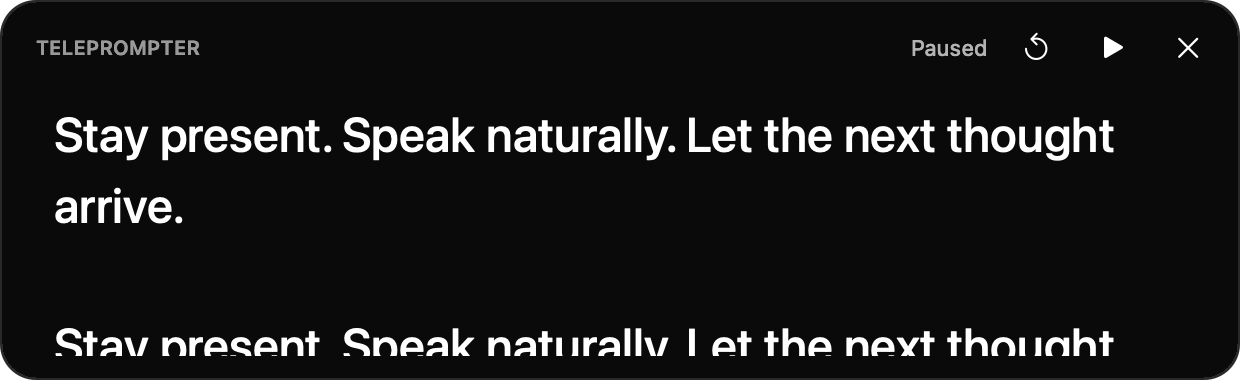
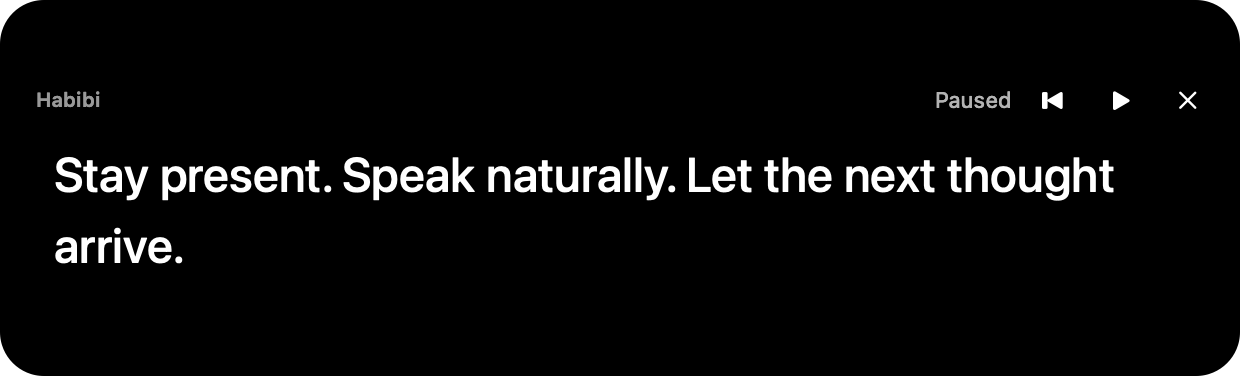
attach teleprompter to screen notch

diff --git a/native/Teleprompter.swift b/native/Teleprompter.swift
@@ -27,6 +27,7 @@ final class TeleprompterController: NSObject {
   private let text = NSTextView()
   private let statusLabel = NSTextField(labelWithString: "Paused")
   private var playButton: NSButton?
+  private var headerTop: NSLayoutConstraint?
   private var timer: Timer?
   private var observers: [NSObjectProtocol] = []
   private var lastTick = 0.0
@@ -90,12 +91,13 @@ final class TeleprompterController: NSObject {
     else if action == "configure" {
       let reading = hasActiveTimer
       let oldWidth = overlayWidth
+      let oldFontSize = fontSize
       let maximum = max(1, text.frame.height - scroll.contentView.bounds.height)
       let fraction = scrollOffset / maximum
       pause(notify: false)
       configure(settings)
       if panel?.isVisible == true {
-        if oldWidth != overlayWidth { position() }
+        if oldWidth != overlayWidth || oldFontSize != fontSize { position() }
         layoutScript()
         let offset = fraction * max(0, text.frame.height - scroll.contentView.bounds.height)
         scroll.contentView.scroll(to: NSPoint(x: 0, y: offset))
@@ -120,36 +122,35 @@ final class TeleprompterController: NSObject {
     guard panel == nil else { return }
     let window = PrompterPanel(contentRect: .zero, styleMask: [.borderless, .nonactivatingPanel], backing: .buffered, defer: false)
     window.title = "Habibi Teleprompter"
-    window.level = .floating
+    window.level = NSWindow.Level(rawValue: NSWindow.Level.statusBar.rawValue + 1)
     window.collectionBehavior = [.canJoinAllSpaces, .fullScreenAuxiliary, .ignoresCycle]
     window.isOpaque = false
     window.backgroundColor = .clear
-    window.hasShadow = true
+    window.hasShadow = false
     window.hidesOnDeactivate = false
-    window.isMovableByWindowBackground = true
+    window.isMovableByWindowBackground = false
     window.isReleasedWhenClosed = false
     window.toggleReading = { [weak self] in self?.toggle() }
     window.stopReading = { [weak self] in self?.stop() }
     let content = NSView()
     content.wantsLayer = true
-    content.layer?.backgroundColor = NSColor(calibratedWhite: 0.025, alpha: 0.98).cgColor
-    content.layer?.cornerRadius = 18
-    content.layer?.borderWidth = 1
-    content.layer?.borderColor = NSColor(white: 1, alpha: 0.13).cgColor
+    content.layer?.backgroundColor = NSColor.black.cgColor
+    content.layer?.cornerRadius = 22
+    content.layer?.maskedCorners = [.layerMinXMinYCorner, .layerMaxXMinYCorner]
     content.layer?.masksToBounds = true
     window.contentView = content
-    let title = NSTextField(labelWithString: "TELEPROMPTER")
+    let title = NSTextField(labelWithString: "Habibi")
     title.font = .systemFont(ofSize: 10, weight: .semibold)
     title.textColor = NSColor(white: 0.6, alpha: 1)
     statusLabel.font = .systemFont(ofSize: 11)
     statusLabel.textColor = NSColor(white: 0.7, alpha: 1)
-    let reset = button("arrow.counterclockwise", "Restart script", #selector(restart))
+    let reset = button("backward.end.fill", "Restart script", #selector(restart))
     let play = button("pause.fill", "Pause or resume · Space", #selector(toggle))
     let close = button("xmark", "Close teleprompter · Esc", #selector(closeOverlay))
     playButton = play
     let header = NSStackView(views: [title, NSView(), statusLabel, reset, play, close])
     header.orientation = .horizontal
-    header.spacing = 10
+    header.spacing = 6
     header.translatesAutoresizingMaskIntoConstraints = false
     content.addSubview(header)
     scroll.translatesAutoresizingMaskIntoConstraints = false
@@ -168,15 +169,17 @@ final class TeleprompterController: NSObject {
     text.textContainer?.widthTracksTextView = true
     scroll.documentView = text
     content.addSubview(scroll)
+    let top = header.topAnchor.constraint(equalTo: content.topAnchor, constant: 6)
+    headerTop = top
     NSLayoutConstraint.activate([
       header.leadingAnchor.constraint(equalTo: content.leadingAnchor, constant: 18),
       header.trailingAnchor.constraint(equalTo: content.trailingAnchor, constant: -12),
-      header.topAnchor.constraint(equalTo: content.topAnchor, constant: 10),
-      header.heightAnchor.constraint(equalToConstant: 28),
-      scroll.topAnchor.constraint(equalTo: header.bottomAnchor, constant: 4),
+      top,
+      header.heightAnchor.constraint(equalToConstant: 24),
+      scroll.topAnchor.constraint(equalTo: header.bottomAnchor, constant: 0),
       scroll.leadingAnchor.constraint(equalTo: content.leadingAnchor, constant: 10),
       scroll.trailingAnchor.constraint(equalTo: content.trailingAnchor, constant: -10),
-      scroll.bottomAnchor.constraint(equalTo: content.bottomAnchor, constant: -12),
+      scroll.bottomAnchor.constraint(equalTo: content.bottomAnchor, constant: -8),
     ])
     panel = window
   }
@@ -185,6 +188,8 @@ final class TeleprompterController: NSObject {
     let control = NSButton(image: NSImage(systemSymbolName: symbol, accessibilityDescription: label)!, target: self, action: action)
     control.bezelStyle = .texturedRounded
     control.isBordered = false
+    control.image?.isTemplate = true
+    control.symbolConfiguration = NSImage.SymbolConfiguration(pointSize: 11, weight: .medium)
     control.contentTintColor = .white
     control.toolTip = label
     control.setAccessibilityLabel(label)
@@ -196,9 +201,16 @@ final class TeleprompterController: NSObject {
     let pointerScreen = NSScreen.screens.first(where: { $0.frame.contains(NSEvent.mouseLocation) })
     guard let screen = (preferPointer ? pointerScreen : panel?.screen) ?? NSScreen.main else { return }
     let width = min(overlayWidth, screen.visibleFrame.width - 32)
-    let height = min(190.0, screen.visibleFrame.height * 0.35)
-    let top = min(screen.visibleFrame.maxY, screen.frame.maxY - screen.safeAreaInsets.top) - 8
-    panel?.setFrame(NSRect(x: screen.frame.midX - width / 2, y: top - height, width: width, height: height), display: true)
+    // Extend the camera housing's black surface to the physical top edge.
+    // All controls and text remain below the hardware cutout.
+    let inset = screen.safeAreaInsets.top
+    headerTop?.constant = inset + 6
+    let paragraph = NSMutableParagraphStyle()
+    paragraph.lineSpacing = fontSize * 0.3
+    let measured = (script as NSString).boundingRect(with: NSSize(width: max(1, width - 44), height: .greatestFiniteMagnitude), options: [.usesLineFragmentOrigin, .usesFontLeading], attributes: [.font: NSFont.systemFont(ofSize: fontSize, weight: .medium), .paragraphStyle: paragraph]).height
+    let readingHeight = min(max(fontSize * 1.3, ceil(measured)) + 24, fontSize * 3.9 + 24)
+    let height = min(inset + 38 + readingHeight, screen.frame.height * 0.4)
+    panel?.setFrame(NSRect(x: screen.frame.midX - width / 2, y: screen.frame.maxY - height, width: width, height: height), display: true)
   }
 
   private func layoutScript() {

diff --git a/native/smoke-test-teleprompter.swift b/native/smoke-test-teleprompter.swift
@@ -39,8 +39,13 @@ private struct TeleprompterSmokeTest {
       }
     }
     if let frame = controller.overlayFrame, let screen = NSScreen.screens.first(where: { $0.frame.contains(NSPoint(x: frame.midX, y: frame.midY)) }) {
-      precondition(frame.maxY <= screen.frame.maxY - screen.safeAreaInsets.top)
+      precondition(abs(frame.maxY - screen.frame.maxY) < 0.5, "The overlay must attach to the physical top edge without a gap")
       precondition(frame.minX >= screen.frame.minX && frame.maxX <= screen.frame.maxX)
+      precondition(controller.overlayView?.window?.isMovableByWindowBackground == false, "The notch extension must stay attached")
+      precondition(controller.overlayView?.layer?.borderWidth == 0, "The black notch extension must have no card outline")
+      if let header = controller.overlayView?.subviews.first(where: { $0 is NSStackView }) {
+        precondition(header.frame.maxY <= frame.height - screen.safeAreaInsets.top, "Controls must stay below the camera housing")
+      } else { preconditionFailure("The overlay needs accessible playback controls") }
     } else { preconditionFailure("The overlay must sit on a connected display") }
     controller.resume()
     NotificationCenter.default.post(name: NSApplication.didHideNotification, object: app)
@@ -58,6 +63,7 @@ private struct TeleprompterSmokeTest {
     controller.stop()
     precondition(controller.snapshot["visible"] as? Bool == false && !controller.hasActiveTimer)
     controller.handle(["action": "start", "script": "Done."])
+    precondition((controller.overlayFrame?.height ?? 1000) < 150 + (NSScreen.main?.safeAreaInsets.top ?? 0), "Short scripts should not leave an oversized empty panel")
     advance { controller.state == "finished" }
     precondition(controller.state == "finished" && !controller.hasActiveTimer)
     controller.stop()

diff --git a/README.md b/README.md
@@ -164,8 +164,8 @@ the user’s sign-in or configured MCP server and platform permissions.
 ## Teleprompter
 
 Search **Teleprompter**, paste your script, and press **Start** or **⌘ Enter**.
-The launcher steps aside and a small black reader appears below the notch on
-your current display. Drag it to reposition it. Its controls pause, resume,
+The launcher steps aside and a black reader extends down from the notch at
+the top edge of your current display. Its controls pause, resume,
 restart, and close the reader; when focused, **Space** pauses and **Esc** closes.
 Your script and reading preferences are saved on this Mac. Scrolling stops at
 the end of the script, when paused or closed, and when the Mac sleeps.
